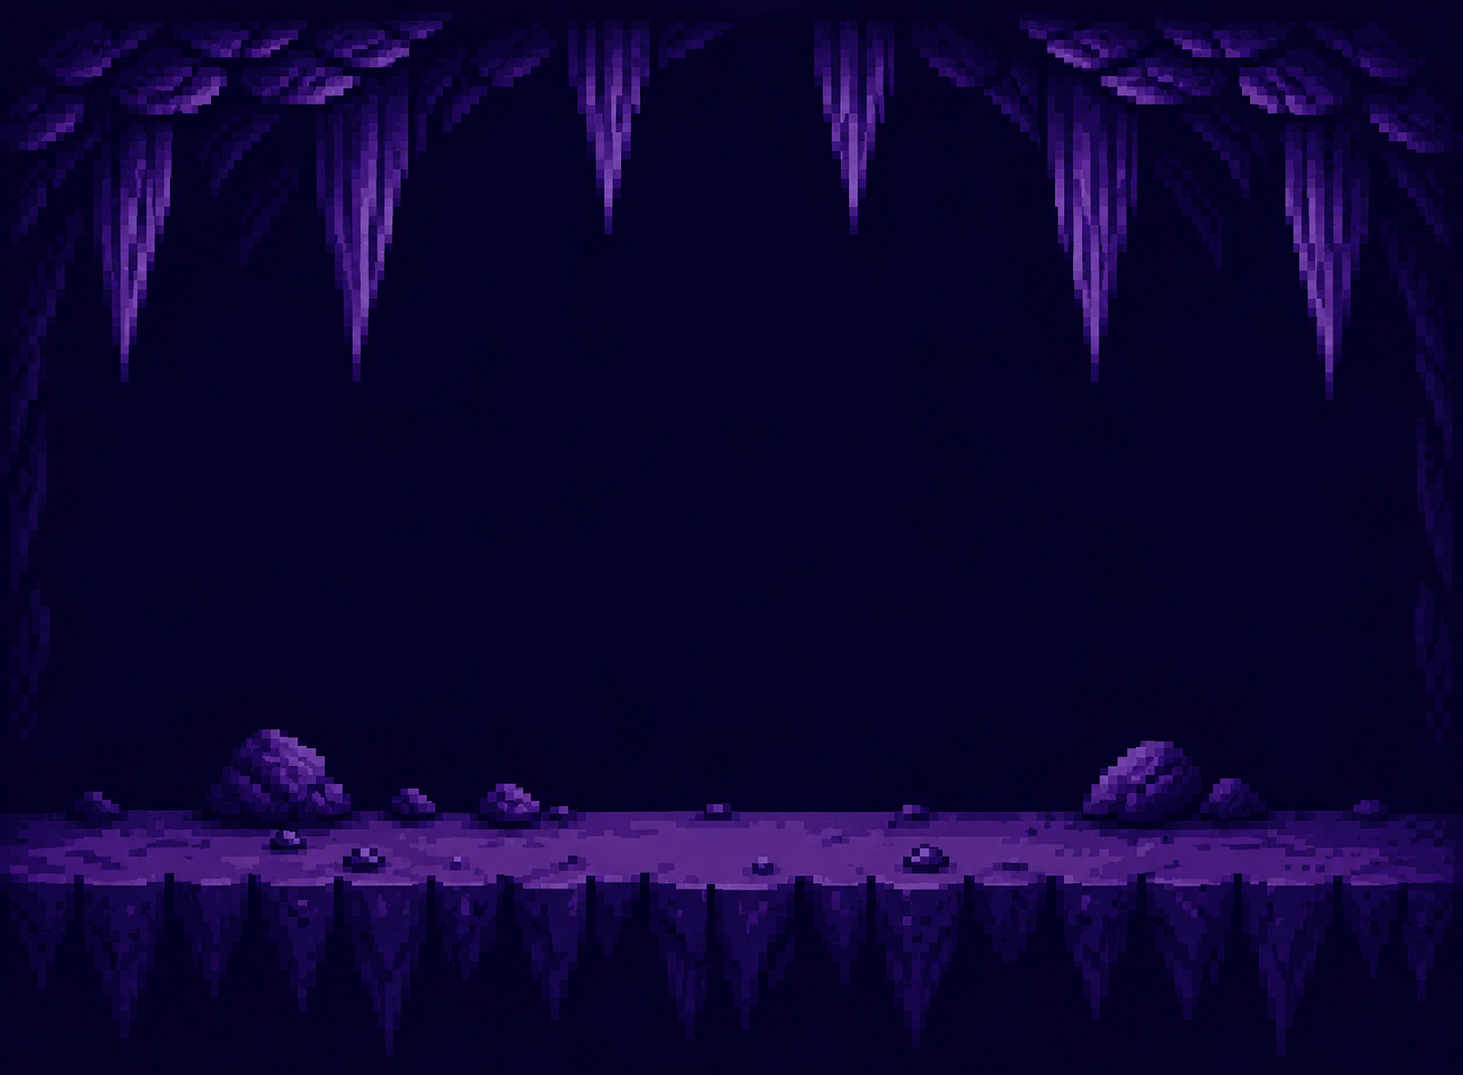
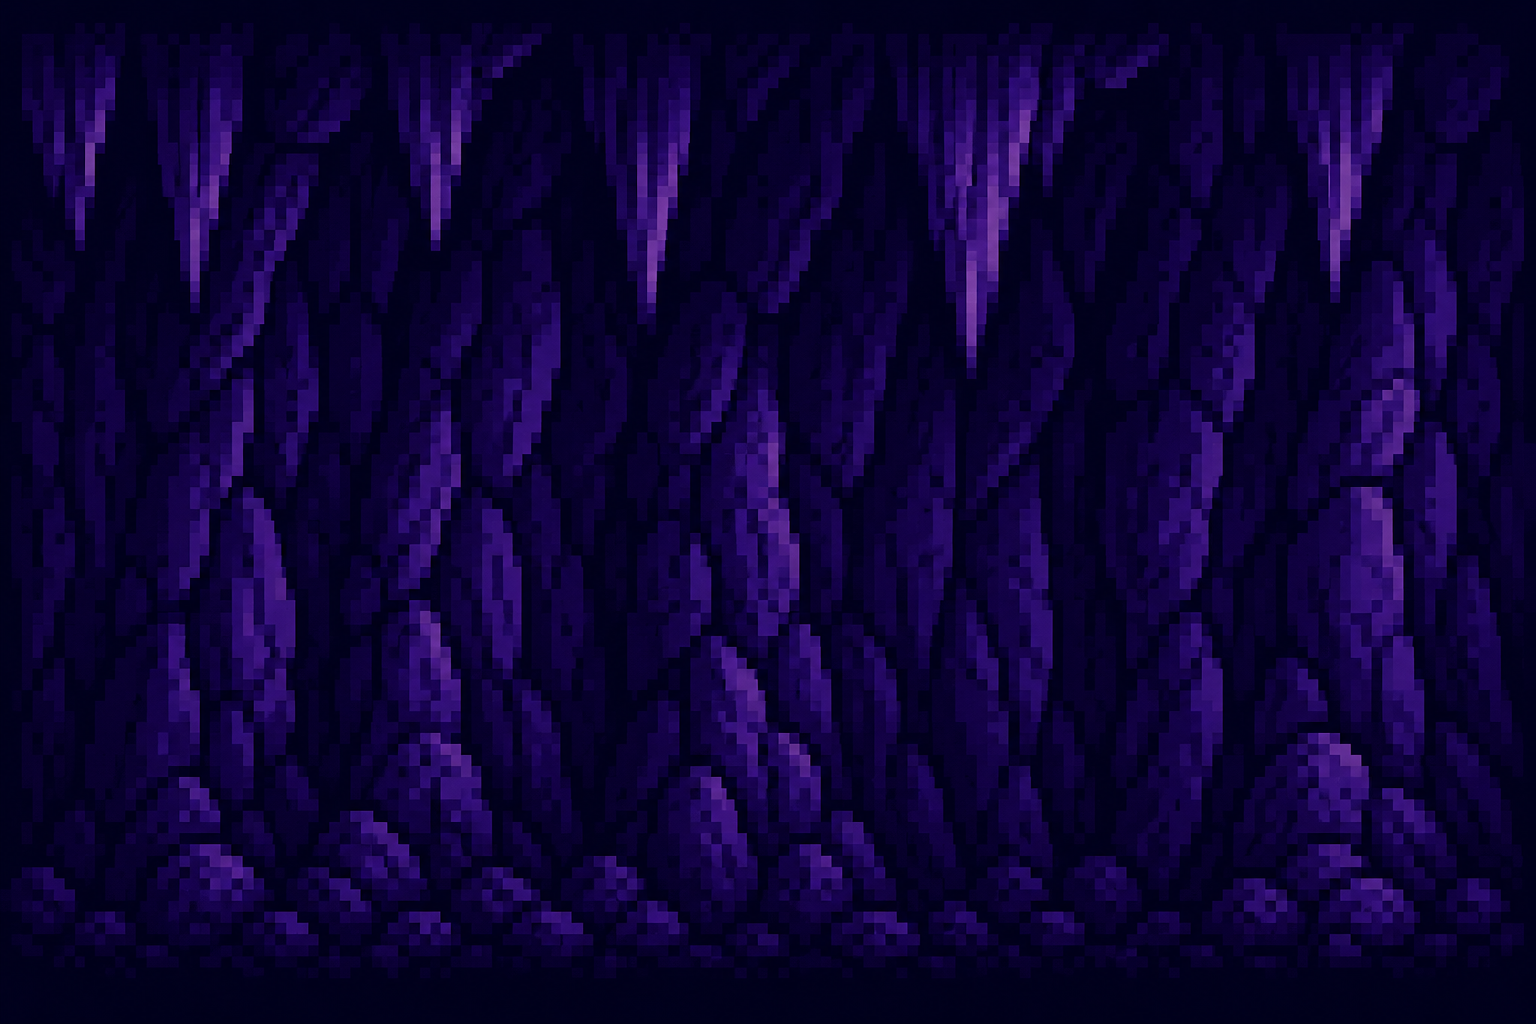
Criação basica de menu interativo por teclas

diff --git a/Projeto/Menu/menu.cpp b/Projeto/Menu/menu.cpp
@@ -1,37 +1,143 @@
 #include "menu.h"
 #include "../Game/game.h"
 #include <raylib.h>
+#include <cstdlib>
 
-enum Estado { ESTADO_MENU, ESTADO_JOGANDO };
+enum Estado { ESTADO_MENU, ESTADO_JOGANDO, ESTADO_CONFIGURACOES };
 Estado estadoAtual = ESTADO_MENU;
+
+const int totalOpcoes = 4;
+int opcaoSelecionada  = 0;
+
+// Posicao central Y de cada botao na tela (ajuste se necessario)
+const int botoesY[] = { 294, 361, 428, 495 };
+
+// Largura e altura que cada botao vai ser desenhado na tela
+const int botaoW = 320;
+const int botaoH = 60;
+
+const char* opcoesConfig[] = { "Volume", "Voltar" };
+const int totalConfig = 2;
+int opcaoConfig = 0;
+const int botoesConfigY[] = { 294, 361 };
 
 void loadMenu() {
     tela.menuImagem[0] = LoadTexture("Texturas/Fundos/Menu/FundoMenu.png");
+    tela.menuBotoes[0] = LoadTexture("Texturas/Fundos/Menu/BotaoJogar.png");
+    tela.menuBotoes[1] = LoadTexture("Texturas/Fundos/Menu/BotaoCarregar.png");
+    tela.menuBotoes[2] = LoadTexture("Texturas/Fundos/Menu/BotaoOpcoes.png");
+    tela.menuBotoes[3] = LoadTexture("Texturas/Fundos/Menu/BotaoSair.png");
 }
 
 void unloadMenu() {
     UnloadTexture(tela.menuImagem[0]);
+    for (int i = 0; i < 4; i++)
+        UnloadTexture(tela.menuBotoes[i]);
+}
+
+static void desenhaFundoMenu() {
+    Rectangle source = { 0, 0, (float)tela.menuImagem[0].width, (float)tela.menuImagem[0].height };
+    Rectangle dest   = { 0, 0, (float)tela.largura, (float)tela.altura };
+    DrawTexturePro(tela.menuImagem[0], source, dest, { 0 }, 0.0f, WHITE);
+}
+
+static void desenhaBotao(int index, int selecionado) {
+    Texture2D tex = tela.menuBotoes[index];
+
+    // Calcula posicao centralizada
+    float x = tela.largura  / 2.0f - botaoW / 2.0f;
+    float y = botoesY[index] - botaoH / 2.0f;
+
+    // Esmaece o botao Carregar (nao implementado)
+    Color cor = (index == 1) ? DARKGRAY : WHITE;
+
+    Rectangle source = { 0, 0, (float)tex.width, (float)tex.height };
+    Rectangle dest   = { x, y, (float)botaoW, (float)botaoH };
+    DrawTexturePro(tex, source, dest, { 0 }, 0.0f, cor);
+
+    // Borda branca no botao selecionado
+    if (index == selecionado && index != 1) {
+        DrawRectangleLinesEx({ x - 2, y - 2, (float)botaoW + 4, (float)botaoH + 4 }, 2, WHITE);
+    }
+}
+
+static void updateMenuPrincipal() {
+    if (IsKeyPressed(KEY_DOWN) || IsKeyPressed(KEY_S))
+        opcaoSelecionada = (opcaoSelecionada + 1) % totalOpcoes;
+    if (IsKeyPressed(KEY_UP) || IsKeyPressed(KEY_W))
+        opcaoSelecionada = (opcaoSelecionada - 1 + totalOpcoes) % totalOpcoes;
+
+    // Pula o Carregar (index 1) que esta desabilitado
+    if (opcaoSelecionada == 1) {
+        if (IsKeyPressed(KEY_DOWN) || IsKeyPressed(KEY_S))
+            opcaoSelecionada = 2;
+        else
+            opcaoSelecionada = 0;
+    }
+
+    if (IsKeyPressed(KEY_ENTER)) {
+        switch (opcaoSelecionada) {
+            case 0: estadoAtual = ESTADO_JOGANDO;       break;
+            case 1: /* Carregar — futuro */              break;
+            case 2: estadoAtual = ESTADO_CONFIGURACOES; break;
+            case 3: CloseWindow(); exit(0);             break;
+        }
+    }
+}
+
+static void updateConfiguracoes() {
+    if (IsKeyPressed(KEY_DOWN) || IsKeyPressed(KEY_S))
+        opcaoConfig = (opcaoConfig + 1) % totalConfig;
+    if (IsKeyPressed(KEY_UP) || IsKeyPressed(KEY_W))
+        opcaoConfig = (opcaoConfig - 1 + totalConfig) % totalConfig;
+    if (IsKeyPressed(KEY_ENTER) && opcaoConfig == totalConfig - 1)
+        estadoAtual = ESTADO_MENU;
+    if (IsKeyPressed(KEY_ESCAPE))
+        estadoAtual = ESTADO_MENU;
 }
 
 void desenhaMenu() {
-    if (estadoAtual == ESTADO_MENU) {
-        if (IsKeyPressed(KEY_ENTER)) estadoAtual = ESTADO_JOGANDO;
-    }
+    // UPDATE
+    if (estadoAtual == ESTADO_MENU)
+        updateMenuPrincipal();
     else if (estadoAtual == ESTADO_JOGANDO) {
         updateJogo();
         if (IsKeyPressed(KEY_M)) estadoAtual = ESTADO_MENU;
     }
+    else if (estadoAtual == ESTADO_CONFIGURACOES)
+        updateConfiguracoes();
 
+    // DRAW
     BeginDrawing();
     ClearBackground(BLACK);
 
     if (estadoAtual == ESTADO_MENU) {
-        Rectangle source = { 0, 0, (float)tela.menuImagem[0].width, (float)tela.menuImagem[0].height };
-        Rectangle dest   = { 0, 0, (float)tela.largura, (float)tela.altura };
-        DrawTexturePro(tela.menuImagem[0], source, dest, { 0 }, 0.0f, WHITE);
+        desenhaFundoMenu();
+
+        for (int i = 0; i < totalOpcoes; i++)
+            desenhaBotao(i, opcaoSelecionada);
+
+        DrawText("W/S = Navegar | ENTER = Selecionar",
+            tela.largura / 2 - MeasureText("W/S = Navegar | ENTER = Selecionar", 16) / 2,
+            tela.altura - 30, 16, DARKGRAY);
     }
     else if (estadoAtual == ESTADO_JOGANDO) {
         drawJogo();
+        DrawText("M = Menu", 10, 10, 18, DARKGRAY);
+    }
+    else if (estadoAtual == ESTADO_CONFIGURACOES) {
+        desenhaFundoMenu();
+        const char* titulo = "Configuracoes";
+        DrawText(titulo, tela.largura / 2 - MeasureText(titulo, 40) / 2, 200, 40, WHITE);
+        for (int i = 0; i < totalConfig; i++) {
+            int fontSize = (i == opcaoConfig) ? 32 : 26;
+            Color cor    = (i == opcaoConfig) ? YELLOW : WHITE;
+            int x = tela.largura / 2 - MeasureText(opcoesConfig[i], fontSize) / 2;
+            DrawText(opcoesConfig[i], x, botoesConfigY[i], fontSize, cor);
+        }
+        DrawText("ESC = Voltar",
+            tela.largura / 2 - MeasureText("ESC = Voltar", 16) / 2,
+            tela.altura - 30, 16, DARKGRAY);
     }
 
     EndDrawing();

diff --git a/Projeto/Game/game.cpp b/Projeto/Game/game.cpp
@@ -37,20 +37,25 @@ void updateJogo() {
     if (tela.camera.target.y < margemV)               tela.camera.target.y = margemV;
     if (tela.camera.target.y > mapaAltura  - margemV) tela.camera.target.y = mapaAltura  - margemV;
 }
-
 void drawFundo() {
-    // Fora do BeginMode2D — desenha direto na tela
-    Rectangle source = { 0, 0, (float)tela.fundoJogo.width, (float)tela.fundoJogo.height };
-    Rectangle dest   = { 0, 0, (float)tela.largura, (float)tela.altura };
-    DrawTexturePro(tela.fundoJogo, source, dest, { 0, 0 }, 0.0f, WHITE);
+    float fw = (float)tela.fundoJogo.width;
+    float fh = (float)tela.fundoJogo.height;
+    float mapaLargura = map.colunas * bloco.largura;
+    float mapaAltura  = map.linhas  * bloco.altura;
+
+    // Repete a imagem por todo o mapa
+    for (float x = 0; x < mapaLargura; x += fw) {
+        for (float y = 0; y < mapaAltura; y += fh) {
+            DrawTextureV(tela.fundoJogo, { x, y }, WHITE);
+        }
+    }
 }
 
 void drawJogo() {
     ClearBackground({ 5, 5, 20, 255 });
 
-    drawFundo();              // ← fora da câmera, cobre a tela toda na escala certa
-
-    BeginMode2D(tela.camera);
+    BeginMode2D(tela.camera);  // ← drawFundo agora dentro
+        drawFundo();
         desenhaMapa();
         desenhaPersonagem();
     EndMode2D();

diff --git a/Projeto/Estruturas/estruturas.h b/Projeto/Estruturas/estruturas.h
@@ -2,13 +2,13 @@
 #define ESTRUTURAS_H
 #include <raylib.h>
 
-// 1. Definição do TIPO (Apenas o molde)
 typedef struct {
     int largura;
     int altura;
     char titulo[20];
     Texture2D menuImagem[3];
-    Texture2D fundoJogo;      // ← adiciona
+    Texture2D menuBotoes[4];  // ← texturas dos 4 botoes: Jogar, Carregar, Opcoes, Sair
+    Texture2D fundoJogo;
     Camera2D camera;
 } infoTela;
 
@@ -35,11 +35,8 @@ typedef struct {
     float altura;
 } infoBloco;
 
-
-// 2. Declaração das variáveis como EXTERN
-// Isso diz ao C: "Essas variáveis existem, mas serão criadas em outro lugar"
 extern infoTela tela;
 extern infoPersonagem personagem;
 extern infoMapa map;
 extern infoBloco bloco;
-#endif // !ESTRUTURAS_H
+#endif

diff --git a/Projeto/Estruturas/estruturas.cpp b/Projeto/Estruturas/estruturas.cpp
@@ -6,9 +6,10 @@ infoTela tela = {
     1500, 
     800, 
     "Hollow Knight",
-    { 0 },//zera menu
-    { 0 },//zera fundo
-    { {0,0}, {0,0}, 0.0f, 1.7f }  // ultimo valor é o zoom
+    { 0 },  // menuImagem
+    { 0 },  // menuBotoes  ← adiciona essa linha
+    { 0 },  // fundoJogo
+    { {0,0}, {0,0}, 0.0f, 1.7f }  // camera
 };
 
 infoPersonagem personagem = {

diff --git a/Projeto/Personagem/personagem.cpp b/Projeto/Personagem/personagem.cpp
@@ -17,7 +17,7 @@ void updatePersonagem() {
 }
 
 void desenhaPersonagem() {
-    DrawTextureEx(personagem.imagem[0], personagem.posicao, 0, 0.3f, WHITE);
+    DrawTextureEx(personagem.imagem[0], personagem.posicao, 0, 0.25f, WHITE);
 }
 
 // Retorna true se o bloco na posição (px, py) do mundo é sólido